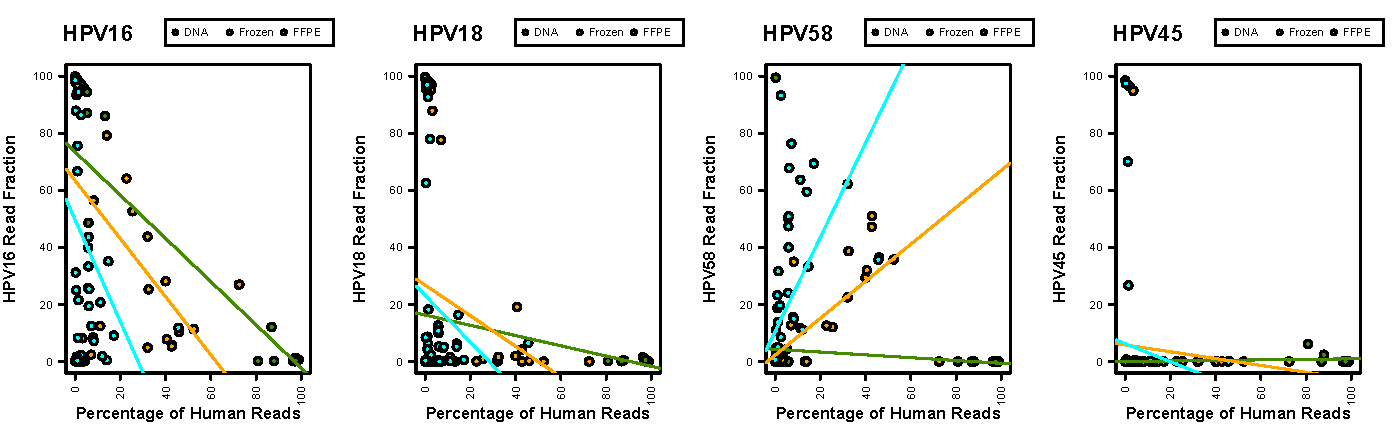
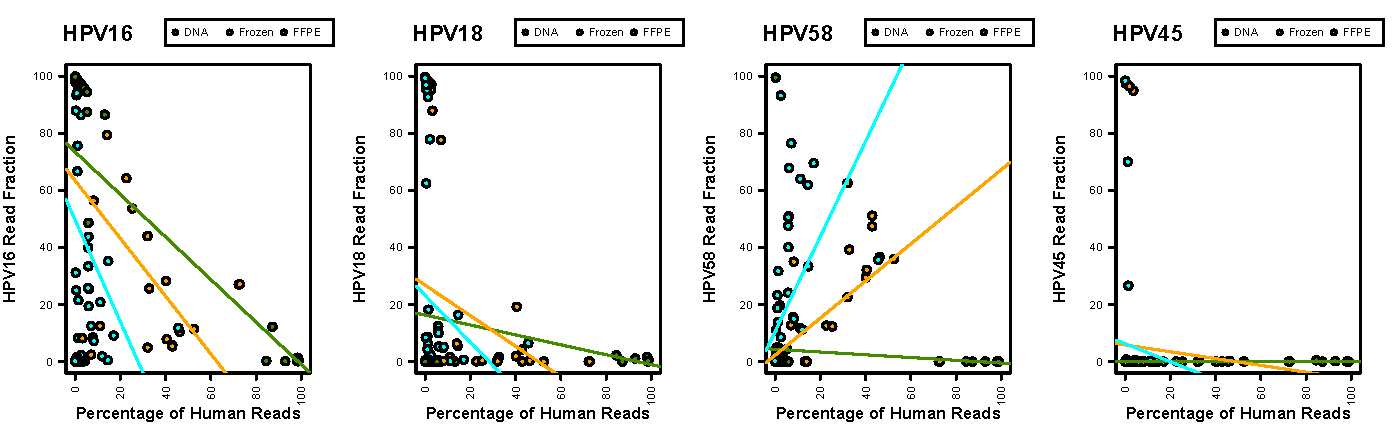
Add files via upload

diff --git a/Downstream_R_Code/Extra_Analysis/qPCR-Filtered_HPV-Genotype_Human-Read_Correlation/README.md b/Downstream_R_Code/Extra_Analysis/qPCR-Filtered_HPV-Genotype_Human-Read_Correlation/README.md
@@ -13,7 +13,7 @@
     <tr>
   	<td align="center">HPV16</td>
 	<td align="center"><b>r = -0.64</br>lm p-value = 4.5 x 10<sup>-5</sup></b></td>
-	<td align="center"><b>r = -0.43</br>lm p-value = 0.0038</b></td>
+	<td align="center"><b>r = -0.43</br>lm p-value = 0.0039</b></td>
 	<td align="center"><b>r = -0.29</br>lm p-value = 0.026</b></td>
     </tr>
     <tr>
@@ -24,13 +24,13 @@
     </tr>
     <tr>
   	<td align="center">HPV58</td>
-	<td align="center">r = -0.11</br>lm p-value = 0.54</td>
-	<td align="center"><b>r = 0.71</br>lm p-value = 5.5 x 10<sup>-8</sup></b></td>
+	<td align="center">r = -0.12</br>lm p-value = 0.52</td>
+	<td align="center"><b>r = 0.71</br>lm p-value = 5.3 x 10<sup>-8</sup></b></td>
 	<td align="center"><b>r = 0.49</br>lm p-value = 0.00011</b></td>
     </tr>
     <tr>
   	<td align="center">HPV45</td>
-	<td align="center">r = 0.33</br>lm p-value = 0.057</td>
+	<td align="center">r = 0.18</br>lm p-value = 0.32</td>
 	<td align="center">r = -0.11</br>lm p-value = 0.47</td>
 	<td align="center">r = -0.11</br>lm p-value = 0.42</td>
     </tr>
@@ -52,25 +52,25 @@
     </tr>
     <tr>
   	<td align="center">HPV16</td>
-	<td align="center"><b>r = -0.62</br>lm p-value = 0.00011</b></td>
-	<td align="center"><b>r = -0.43</br>lm p-value = 0.0038</b></td>
+	<td align="center"><b>r = -0.64</br>lm p-value = 4.4 x 10<sup>-5</sup></b></td>
+	<td align="center"><b>r = -0.43</br>lm p-value = 0.0039</b></td>
 	<td align="center"><b>r = -0.35</br>lm p-value = 0.021</b></td>
     </tr>
     <tr>
   	<td align="center">HPV18</td>
-	<td align="center">r = -0.21</br>lm p-value = 0.23</td>
+	<td align="center">r = -0.22</br>lm p-value = 0.21</td>
 	<td align="center">r = -0.26</br>lm p-value = 0.086</td>
 	<td align="center">r = -0.11</br>lm p-value = 0.50</td>
     </tr>
     <tr>
   	<td align="center">HPV58</td>
-	<td align="center">r = -0.11</br>lm p-value = 0.54</td>
-	<td align="center"><b>r = 0.71</br>lm p-value = 5.5 x 10<sup>-8</sup></b></td>
+	<td align="center">r = -0.12</br>lm p-value = 0.52</td>
+	<td align="center"><b>r = 0.71</br>lm p-value = 5.3 x 10<sup>-8</sup></b></td>
 	<td align="center">r = 0.28</br>lm p-value = 0.07</td>
     </tr>
     <tr>
   	<td align="center">HPV45</td>
-	<td align="center">r = 0.28</br>lm p-value = 0.11</td>
+	<td align="center">r = 0.18</br>lm p-value = 0.32</td>
 	<td align="center">r = -0.11</br>lm p-value = 0.47</td>
 	<td align="center">r = -0.09</br>lm p-value = 0.58</td>
     </tr>
